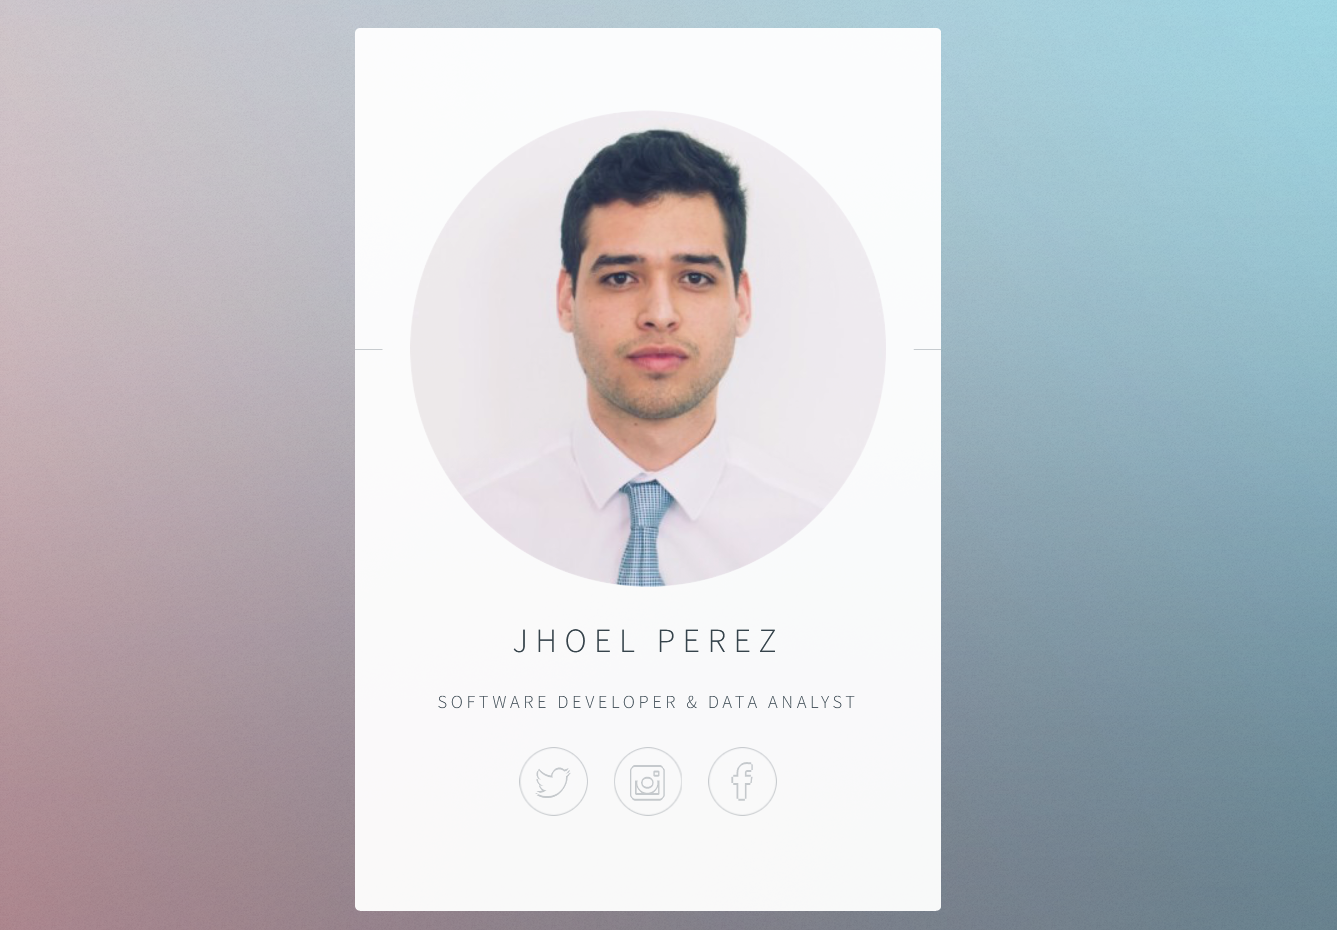
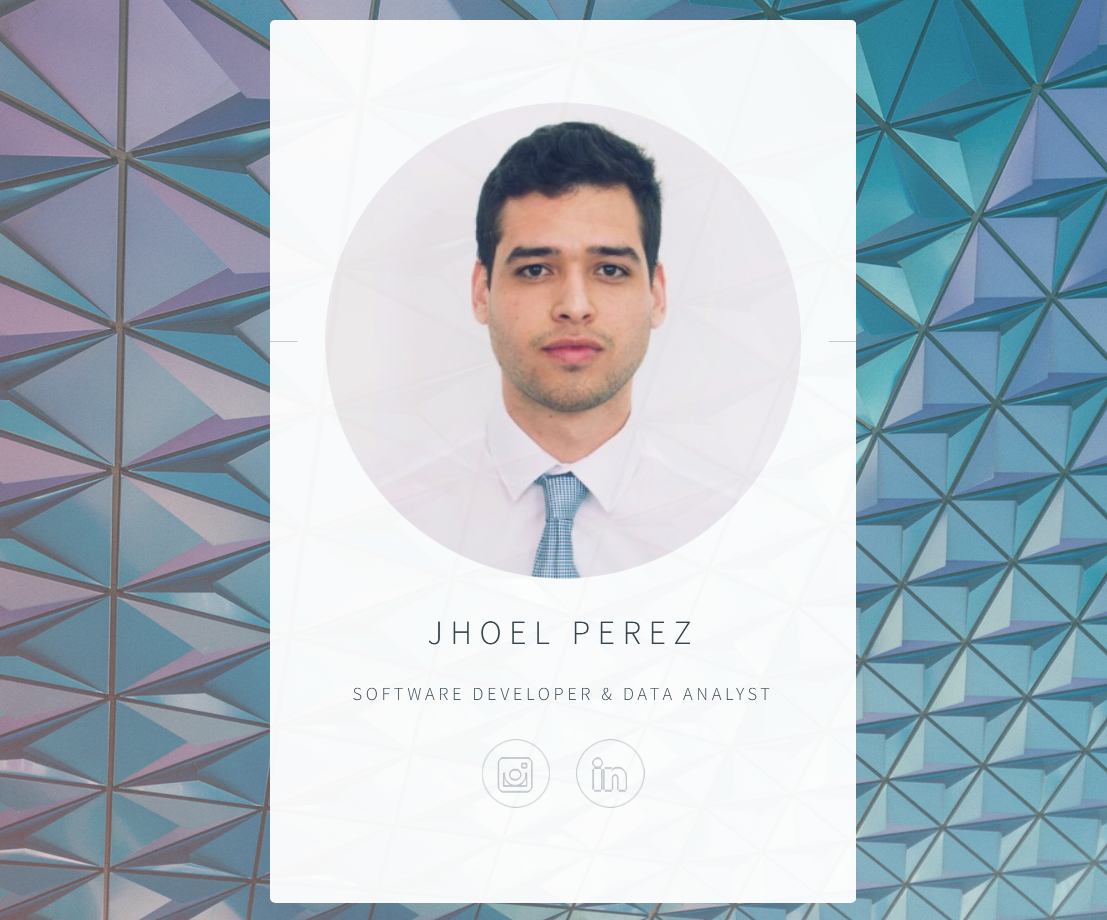
fixed background, update links and example card png

diff --git a/Name_Card/templates/index.html b/Name_Card/templates/index.html
@@ -24,48 +24,11 @@
 							<h1>Jhoel Perez</h1>
 							<p>Software Developer & Data Analyst</p>
 						</header>
-						<!--
-						<hr />
-						<h2>Extra Stuff!</h2>
-						<form method="post" action="#">
-							<div class="field">
-								<input type="text" name="name" id="name" placeholder="Name" />
-							</div>
-							<div class="field">
-								<input type="email" name="email" id="email" placeholder="Email" />
-							</div>
-							<div class="field">
-								<div class="select-wrapper">
-									<select name="department" id="department">
-										<option value="">Department</option>
-										<option value="sales">Sales</option>
-										<option value="tech">Tech Support</option>
-										<option value="null">/dev/null</option>
-									</select>
-								</div>
-							</div>
-							<div class="field">
-								<textarea name="message" id="message" placeholder="Message" rows="4"></textarea>
-							</div>
-							<div class="field">
-								<input type="checkbox" id="human" name="human" /><label for="human">I'm a human</label>
-							</div>
-							<div class="field">
-								<label>But are you a robot?</label>
-								<input type="radio" id="robot_yes" name="robot" /><label for="robot_yes">Yes</label>
-								<input type="radio" id="robot_no" name="robot" /><label for="robot_no">No</label>
-							</div>
-							<ul class="actions">
-								<li><a href="#" class="button">Get Started</a></li>
-							</ul>
-						</form>
-						<hr />
-						-->
+
 						<footer>
 							<ul class="icons">
-								<li><a href="#" class="fa-twitter">Twitter</a></li>
-								<li><a href="#" class="fa-instagram">Instagram</a></li>
-								<li><a href="#" class="fa-facebook">Facebook</a></li>
+								<li><a href="https://www.instagram.com/jhoeljp" class="fa-instagram">Instagram</a></li>
+								<li><a href="https://www.linkedin.com/jhoeljp" class="fa-linkedin">LinkedIn</a></li>
 							</ul>
 						</footer>
 					</section>
